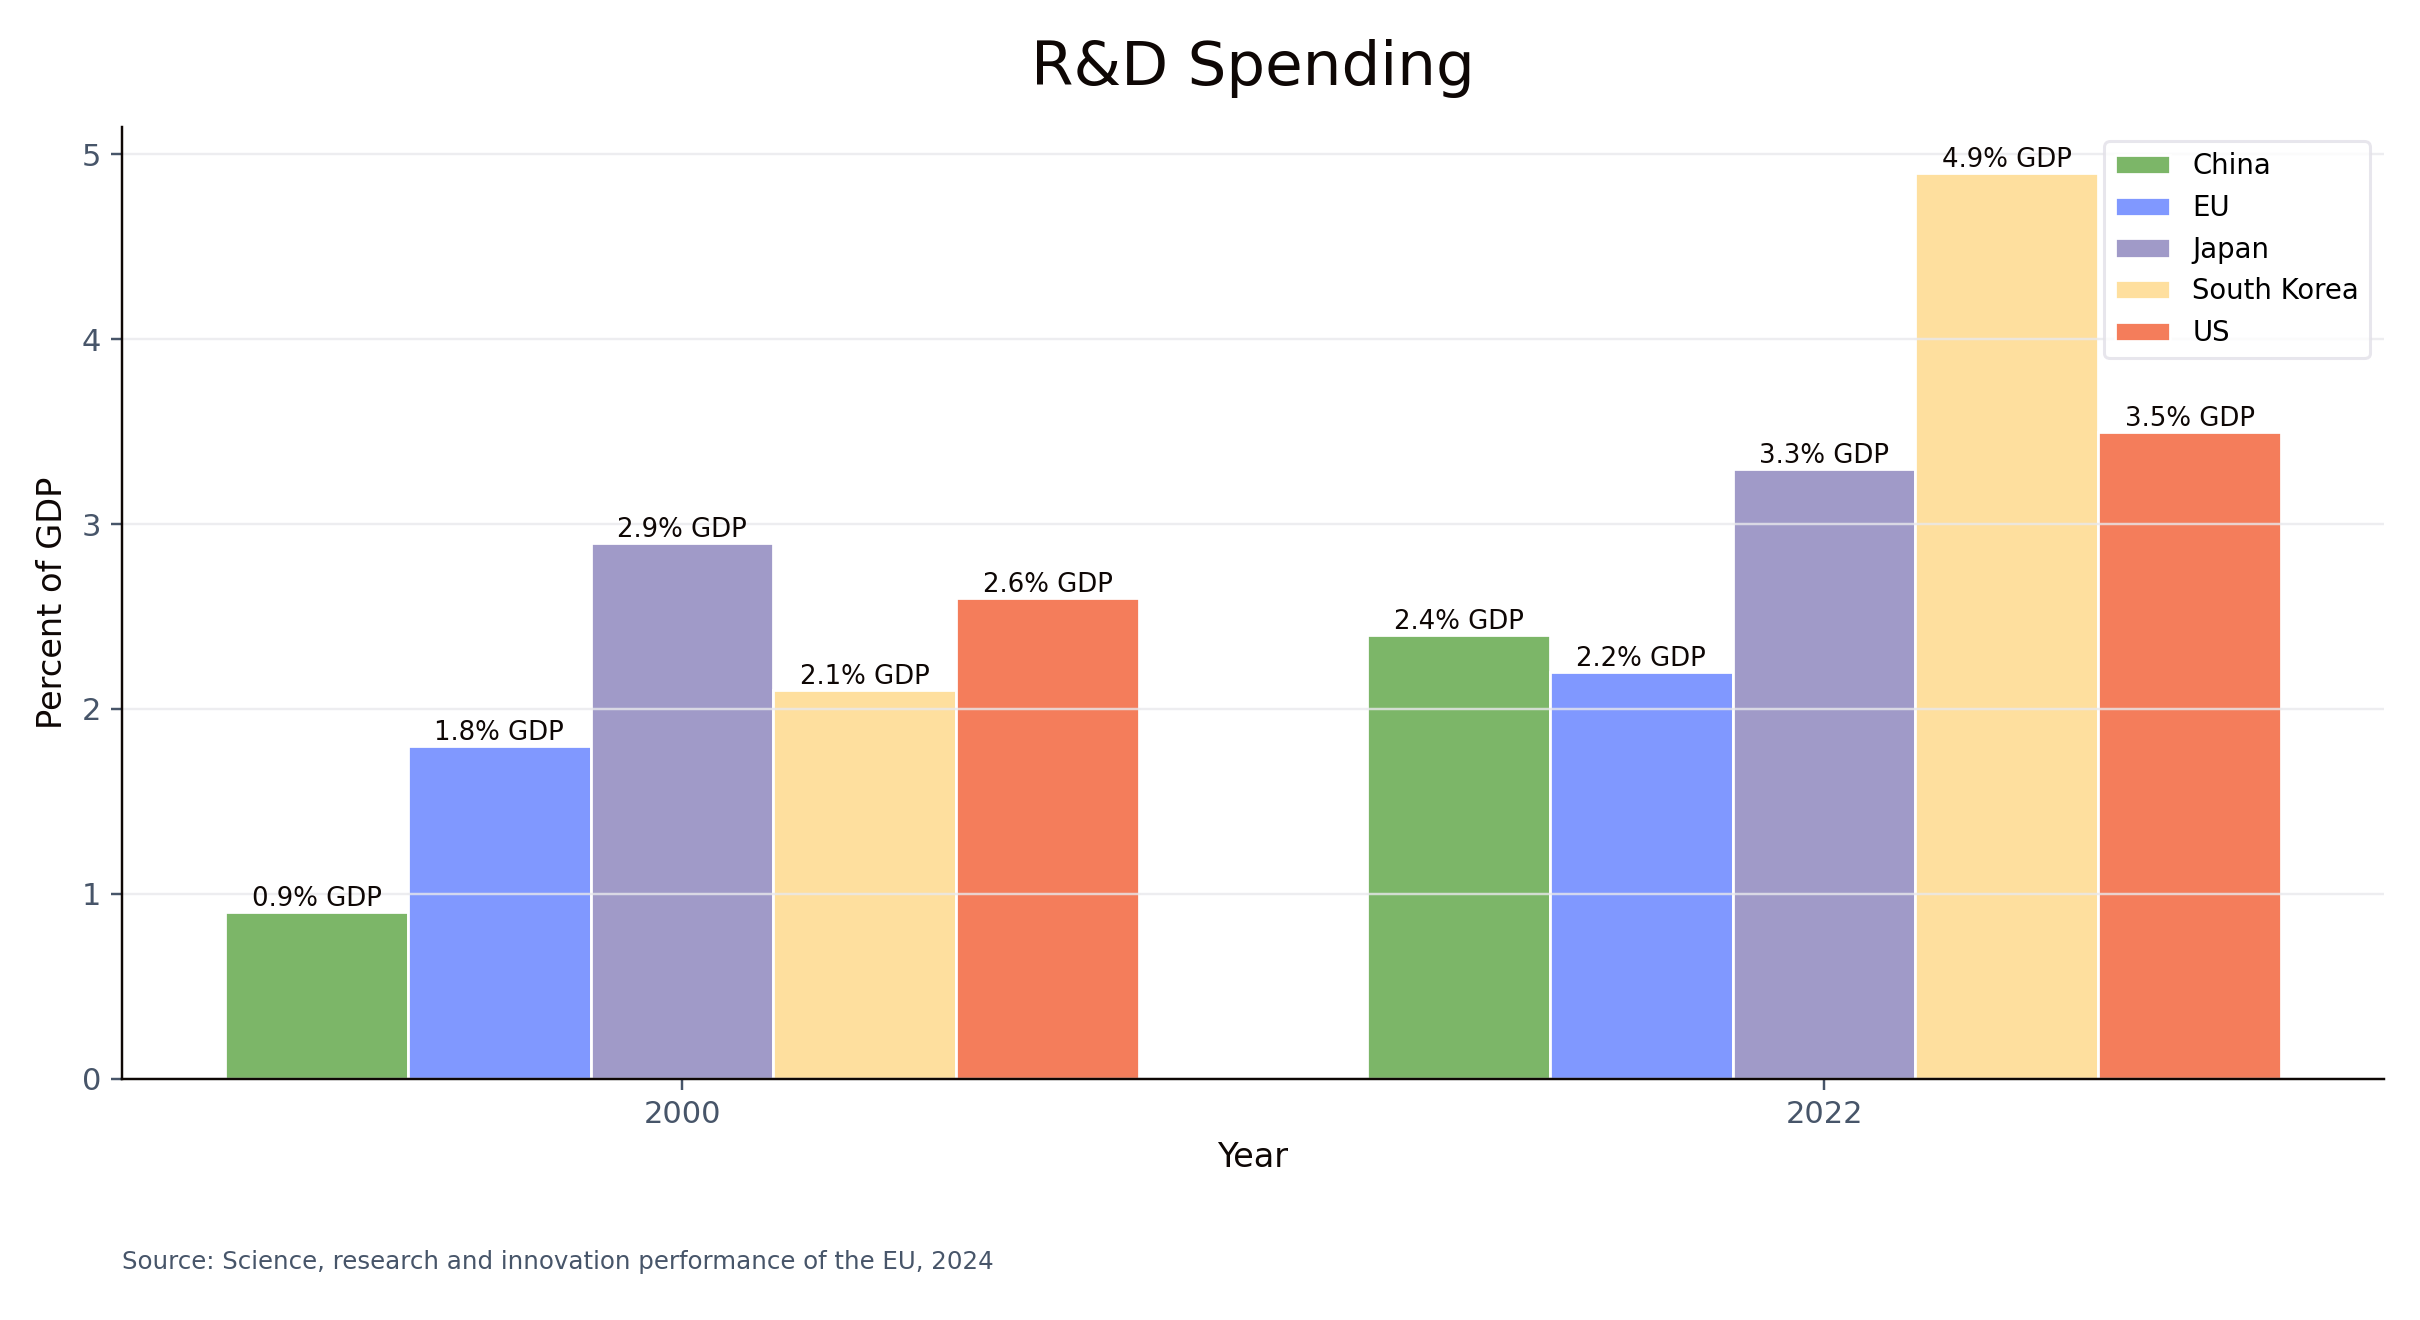
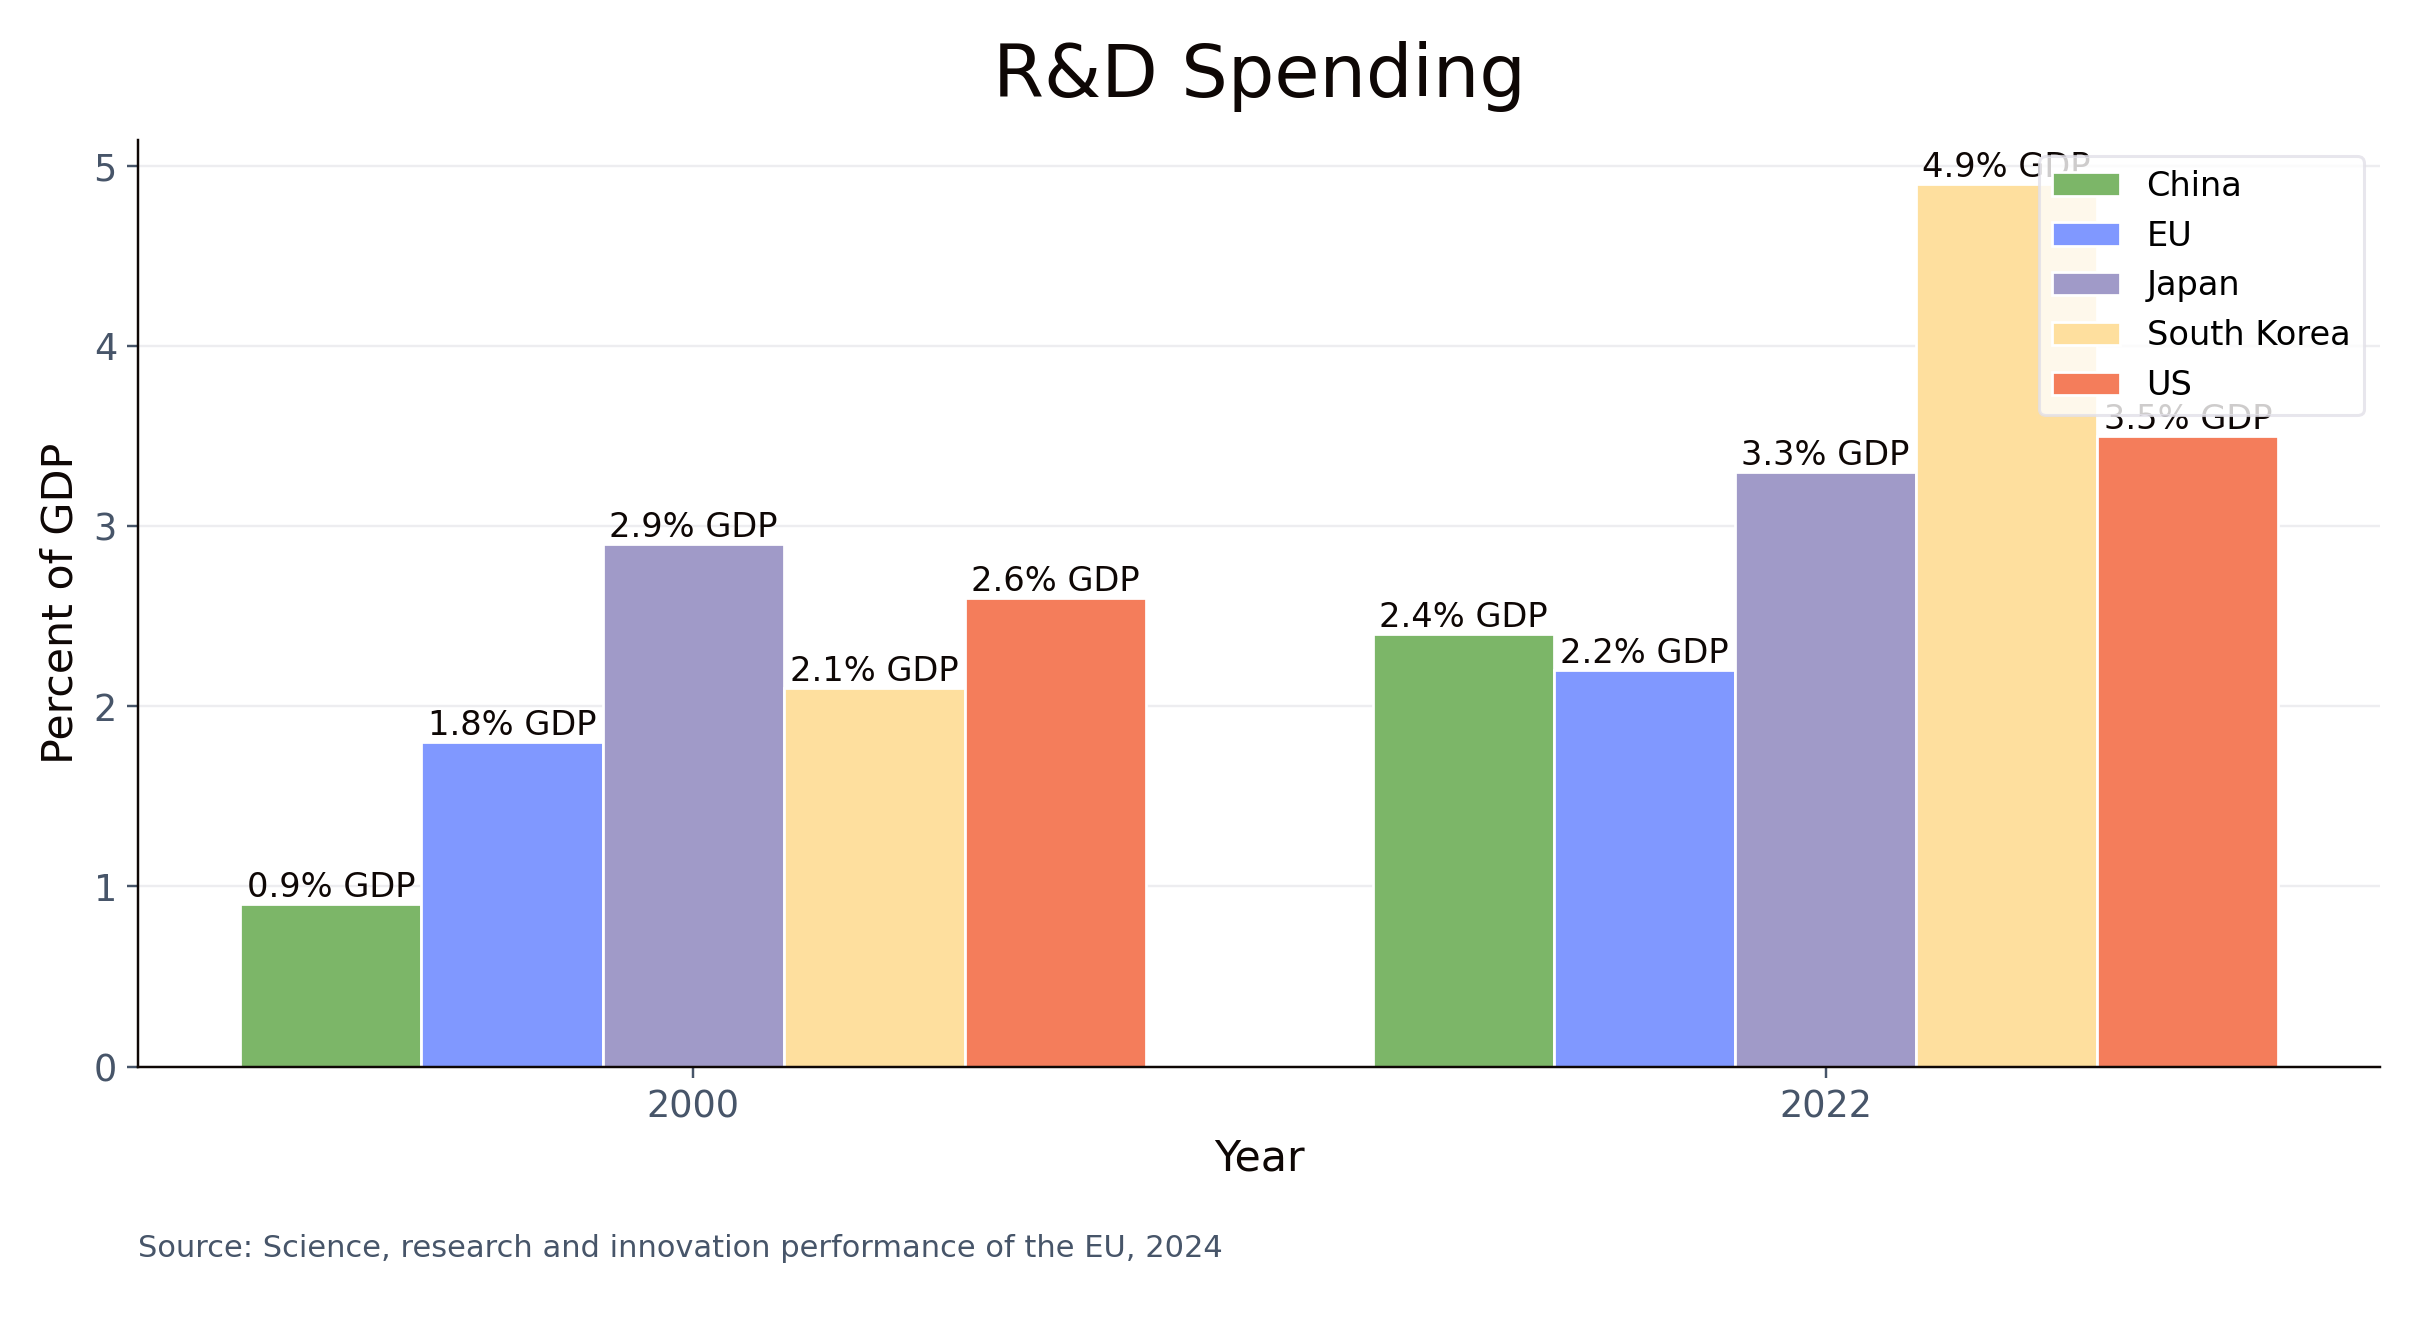
Tune science report chart typography and bar rendering

diff --git a/plot_science_report_graphs.py b/plot_science_report_graphs.py
@@ -37,11 +37,40 @@ REGION_COLORS = {
 
 FALLBACK_COLORS = [COLORS["teal"], COLORS["pink"], COLORS["green"], COLORS["grey"]]
 
+TITLE_SIZE = 24
+AXIS_LABEL_SIZE = 14
+TICK_LABEL_SIZE = 12
+VALUE_LABEL_SIZE = 11
+LEGEND_SIZE = 11
+SOURCE_SIZE = 10
+
 
 def pick_fonts():
-    names = {f.name for f in fm.fontManager.ttflist}
-    body = "Plus Jakarta Sans" if "Plus Jakarta Sans" in names else "DejaVu Sans"
-    title = "Playfair Display" if "Playfair Display" in names else body
+    local_font_dir = Path("fonts")
+    if local_font_dir.exists():
+        for pattern in ("*.ttf", "*.otf"):
+            for font_file in local_font_dir.rglob(pattern):
+                try:
+                    fm.fontManager.addfont(str(font_file))
+                except Exception:
+                    pass
+
+    names = sorted({f.name for f in fm.fontManager.ttflist})
+    lower_map = {n.lower(): n for n in names}
+
+    def match_font(candidates, fallback):
+        for c in candidates:
+            if c.lower() in lower_map:
+                return lower_map[c.lower()]
+        for c in candidates:
+            c_low = c.lower()
+            for n in names:
+                if c_low in n.lower():
+                    return n
+        return fallback
+
+    body = match_font(["Plus Jakarta Sans", "PlusJakartaSans"], "DejaVu Sans")
+    title = match_font(["Playfair Display", "PlayfairDisplay"], body)
     return body, title
 
 
@@ -88,14 +117,15 @@ def color_for_region(region, fallback_idx=0):
     return FALLBACK_COLORS[fallback_idx % len(FALLBACK_COLORS)]
 
 
-def style_axes(ax):
+def style_axes(ax, grid_axis="y"):
     ax.set_facecolor("none")
-    ax.grid(axis="y", color="#e8e8ec", linestyle="-", linewidth=0.8, alpha=0.8)
+    ax.set_axisbelow(True)
+    ax.grid(axis=grid_axis, color="#e8e8ec", linestyle="-", linewidth=0.8, alpha=0.8, zorder=0)
     ax.spines["top"].set_visible(False)
     ax.spines["right"].set_visible(False)
     ax.spines["left"].set_color(COLORS["black"])
     ax.spines["bottom"].set_color(COLORS["black"])
-    ax.tick_params(colors="#475569", labelsize=10)
+    ax.tick_params(colors="#475569", labelsize=TICK_LABEL_SIZE)
 
 
 def plot_single_region_timeseries(g, unit, title_font):
@@ -119,17 +149,17 @@ def plot_single_region_timeseries(g, unit, title_font):
             row["year"],
             row["value"],
             value_label(row["value"], unit),
-            fontsize=9,
+            fontsize=VALUE_LABEL_SIZE,
             color=COLORS["black"],
             ha="center",
             va="bottom",
         )
 
-    ax.set_title(g["indicator"].iloc[0], fontsize=20, color=COLORS["black"], fontname=title_font, pad=14)
-    ax.set_xlabel("Year", fontsize=11, color=COLORS["black"])
-    ax.set_ylabel(unit_axis_label(unit), fontsize=11, color=COLORS["black"])
+    ax.set_title(g["indicator"].iloc[0], fontsize=TITLE_SIZE, color=COLORS["black"], fontname=title_font, pad=14)
+    ax.set_xlabel("Year", fontsize=AXIS_LABEL_SIZE, color=COLORS["black"])
+    ax.set_ylabel(unit_axis_label(unit), fontsize=AXIS_LABEL_SIZE, color=COLORS["black"])
     ax.set_xticks(sorted(g["year"].unique()))
-    style_axes(ax)
+    style_axes(ax, grid_axis="y")
     return fig, ax
 
 
@@ -146,13 +176,13 @@ def plot_single_year_multiregion(g, unit, title_font):
             b.get_y() + b.get_height() / 2,
             value_label(row["value"], unit),
             va="center",
-            fontsize=9,
+            fontsize=VALUE_LABEL_SIZE,
             color=COLORS["black"],
         )
 
-    ax.set_title(f'{g["indicator"].iloc[0]} ({int(g["year"].iloc[0])})', fontsize=20, color=COLORS["black"], fontname=title_font, pad=14)
-    ax.set_xlabel(unit_axis_label(unit), fontsize=11, color=COLORS["black"])
-    style_axes(ax)
+    ax.set_title(f'{g["indicator"].iloc[0]} ({int(g["year"].iloc[0])})', fontsize=TITLE_SIZE, color=COLORS["black"], fontname=title_font, pad=14)
+    ax.set_xlabel(unit_axis_label(unit), fontsize=AXIS_LABEL_SIZE, color=COLORS["black"])
+    style_axes(ax, grid_axis="x")
     return fig, ax
 
 
@@ -183,7 +213,7 @@ def plot_grouped_bars(g, unit, title_font):
                 b.get_x() + b.get_width() / 2,
                 b.get_height(),
                 value_label(float(val), unit),
-                fontsize=8.5,
+                fontsize=VALUE_LABEL_SIZE,
                 ha="center",
                 va="bottom",
                 color=COLORS["black"],
@@ -191,11 +221,11 @@ def plot_grouped_bars(g, unit, title_font):
 
     ax.set_xticks(x)
     ax.set_xticklabels([str(y) for y in years])
-    ax.set_title(g["indicator"].iloc[0], fontsize=20, color=COLORS["black"], fontname=title_font, pad=14)
-    ax.set_xlabel("Year", fontsize=11, color=COLORS["black"])
-    ax.set_ylabel(unit_axis_label(unit), fontsize=11, color=COLORS["black"])
-    ax.legend(frameon=True, facecolor="white", edgecolor="#e2e0e8", fontsize=9, loc="upper right")
-    style_axes(ax)
+    ax.set_title(g["indicator"].iloc[0], fontsize=TITLE_SIZE, color=COLORS["black"], fontname=title_font, pad=14)
+    ax.set_xlabel("Year", fontsize=AXIS_LABEL_SIZE, color=COLORS["black"])
+    ax.set_ylabel(unit_axis_label(unit), fontsize=AXIS_LABEL_SIZE, color=COLORS["black"])
+    ax.legend(frameon=True, facecolor="white", edgecolor="#e2e0e8", fontsize=LEGEND_SIZE, loc="upper right")
+    style_axes(ax, grid_axis="y")
     return fig, ax
 
 
@@ -205,7 +235,15 @@ def main():
     out_dir.mkdir(parents=True, exist_ok=True)
 
     body_font, title_font = pick_fonts()
-    plt.rcParams.update({"font.family": body_font, "font.size": 11})
+    plt.rcParams.update(
+        {
+            "font.family": body_font,
+            "font.size": TICK_LABEL_SIZE,
+            "axes.titlesize": TITLE_SIZE,
+            "axes.labelsize": AXIS_LABEL_SIZE,
+            "legend.fontsize": LEGEND_SIZE,
+        }
+    )
 
     df = pd.read_csv(csv_path)
     df.columns = [c.strip() for c in df.columns]
@@ -238,7 +276,7 @@ def main():
                 -0.18,
                 f"Source: {source}",
                 transform=ax.transAxes,
-                fontsize=8,
+                fontsize=SOURCE_SIZE,
                 color="#475569",
                 ha="left",
                 va="top",
